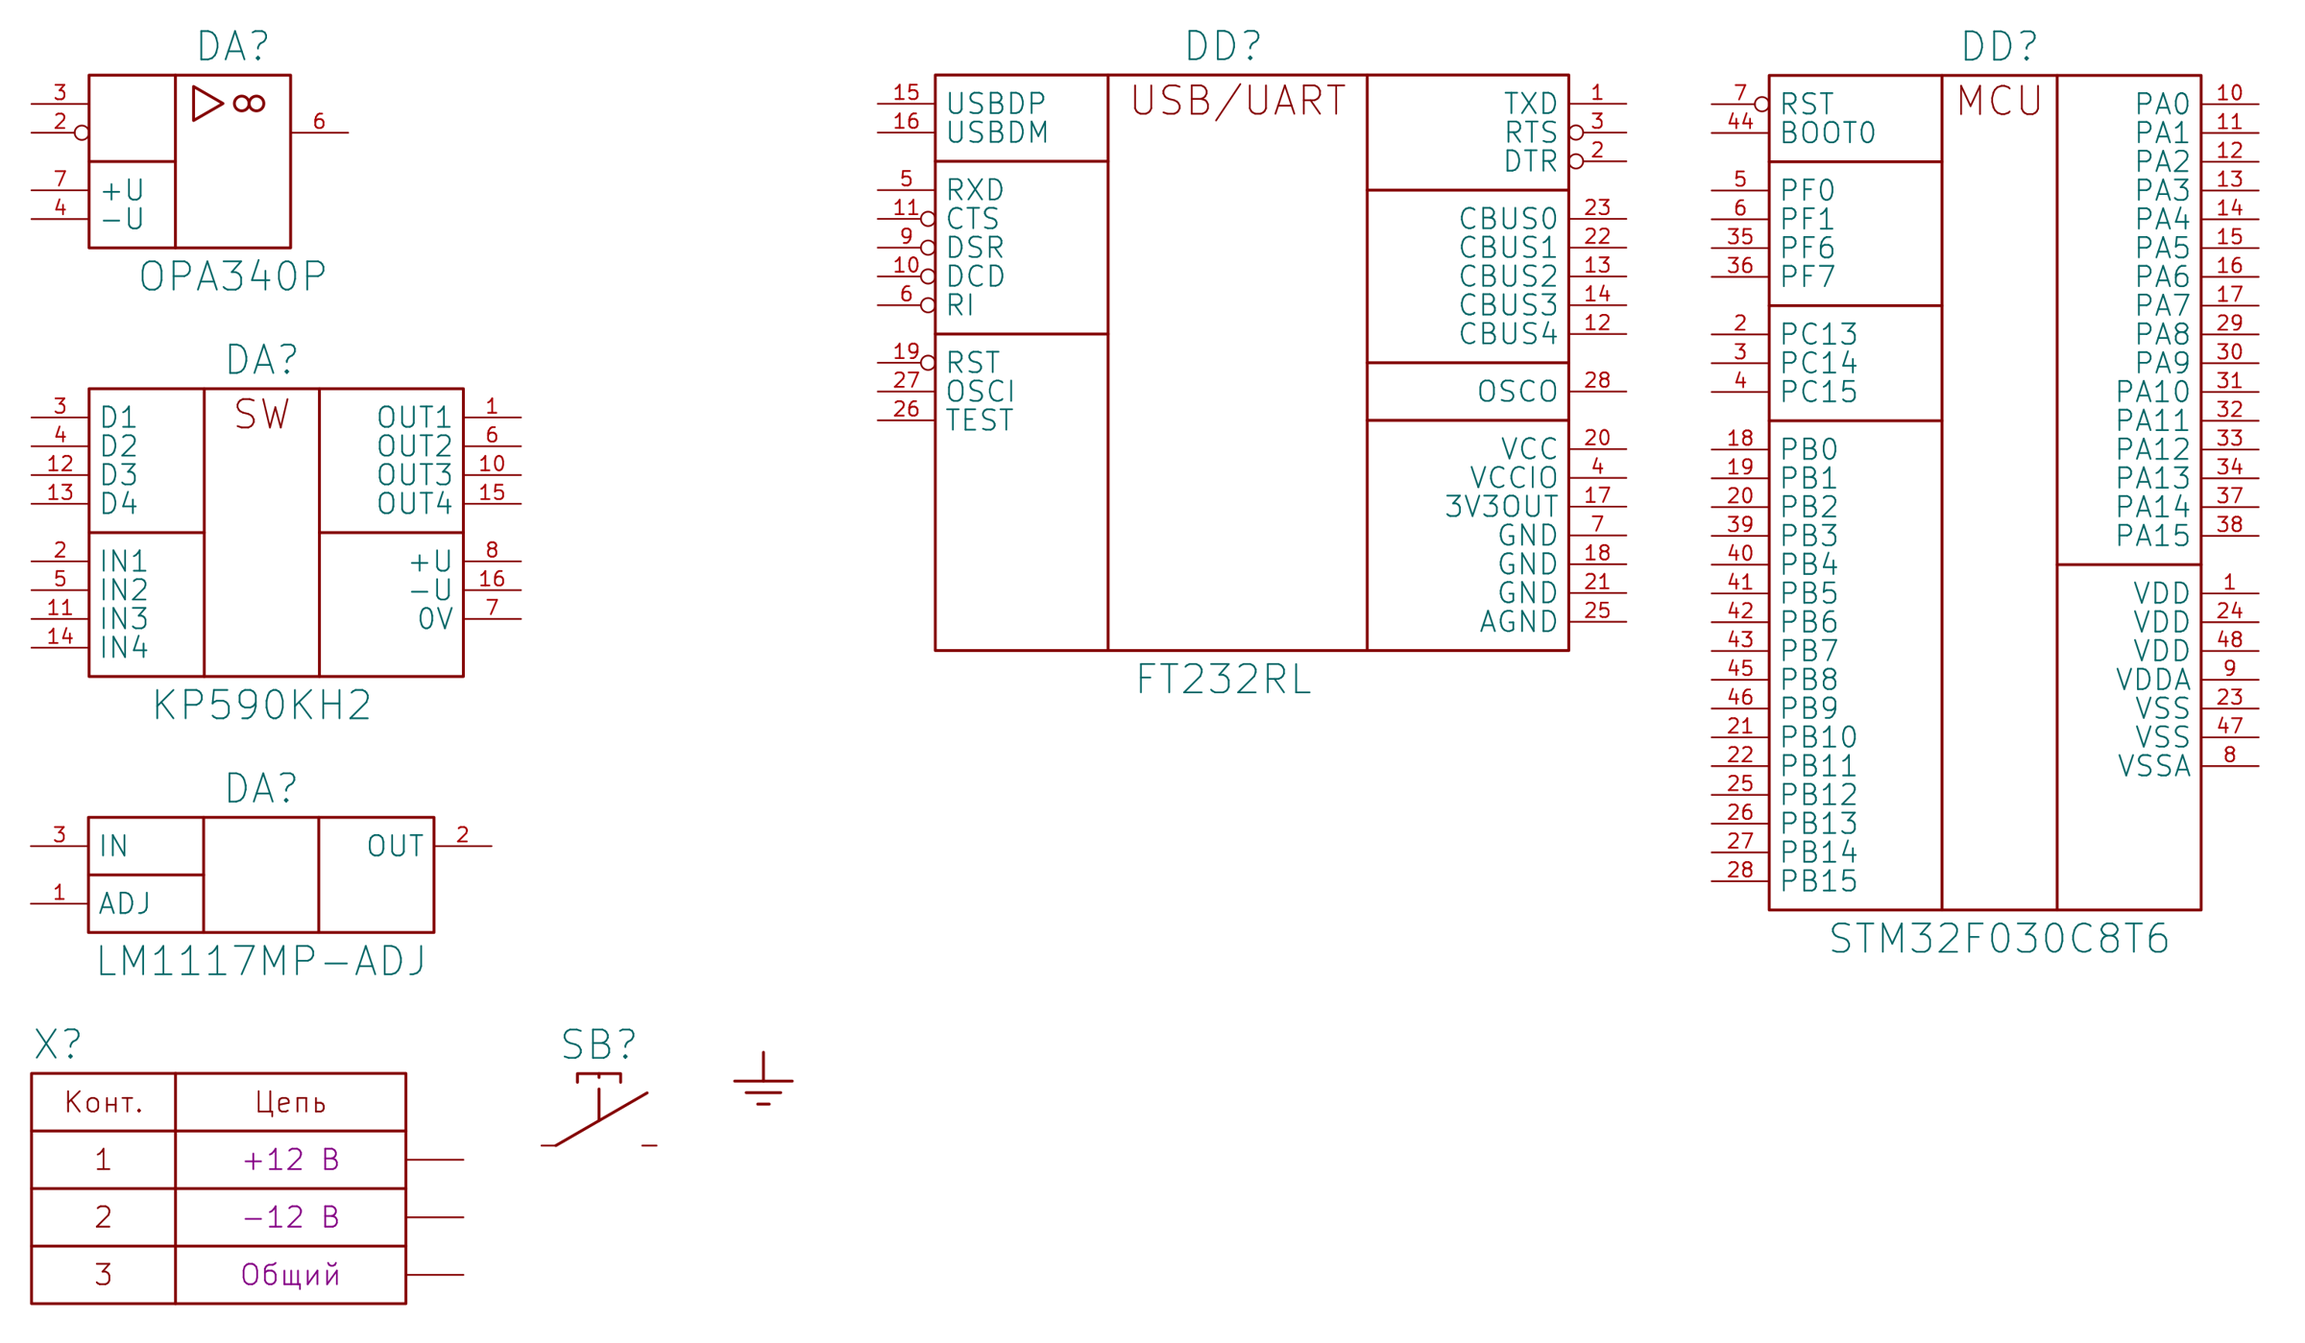
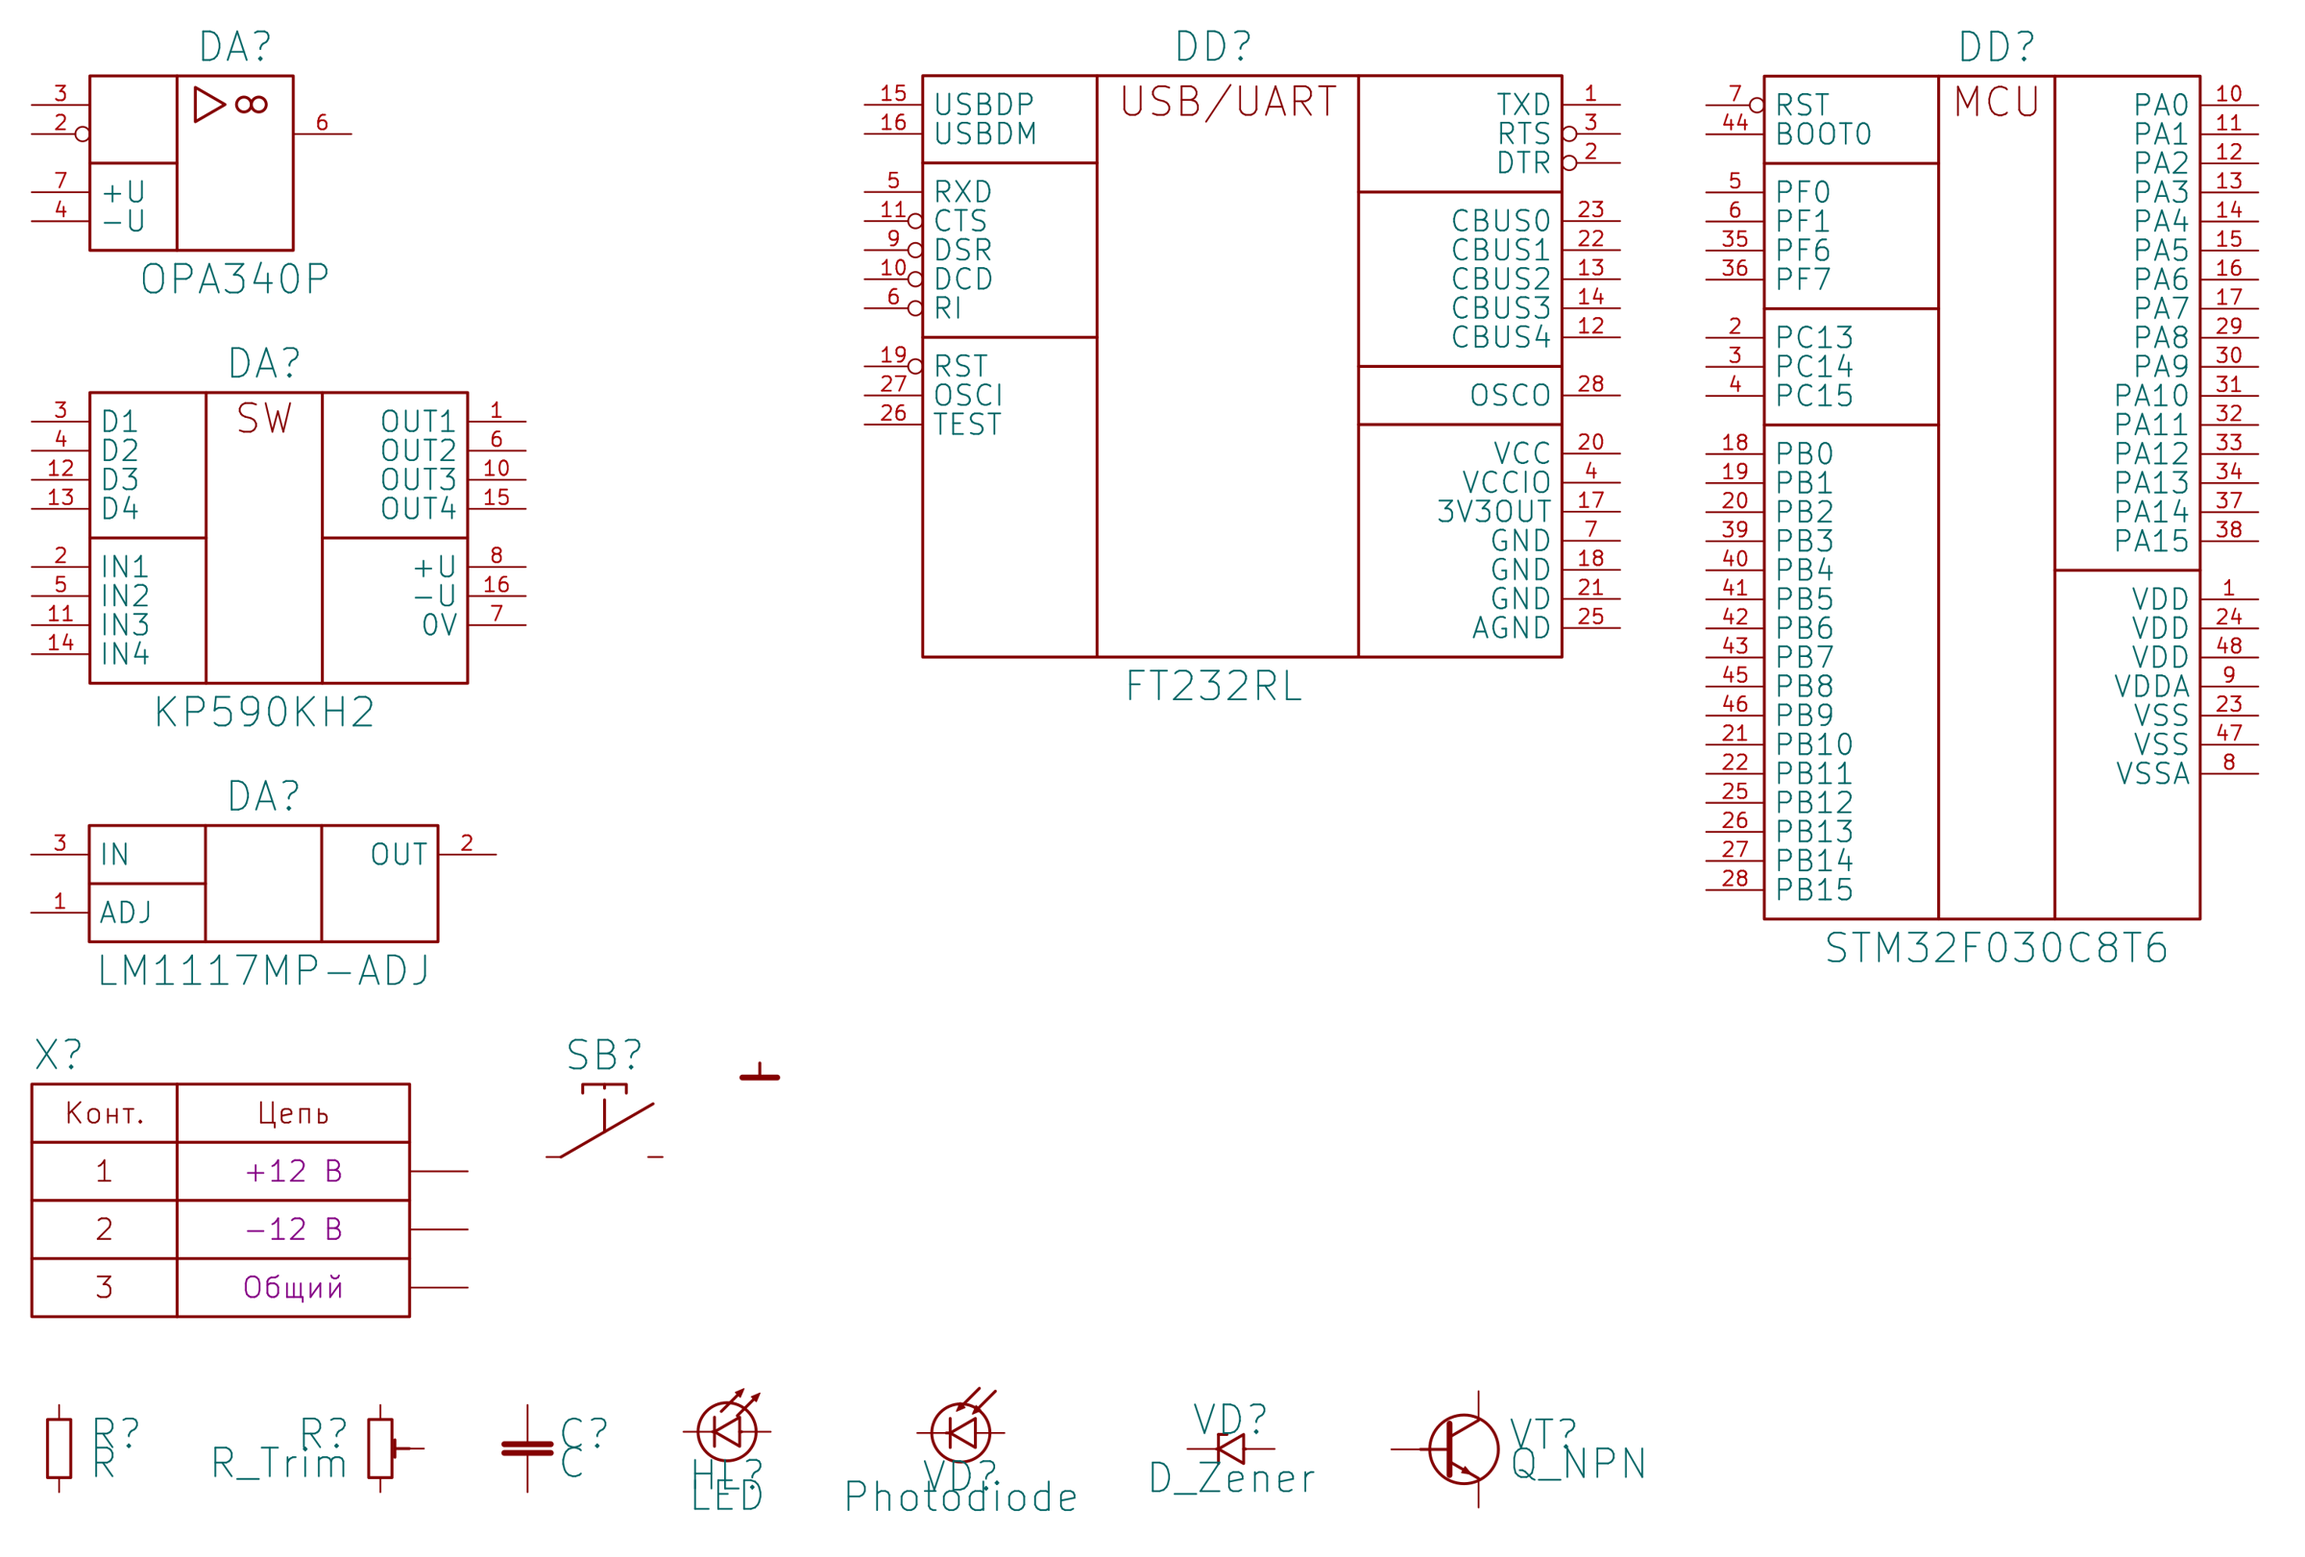
УГО дискретных элементов по ГОСТ 2.728/2.730 (R, R_Trim, C, LED, фотодиод, стабилитрон, n-p-n), общий провод «⊥» по ГОСТ 2.721
Claude-Session: https://claude.ai/code/session_01FsJMMwHQ3FuEgyASHhQBd4

diff --git a/tools/gen_gost_lib.py b/tools/gen_gost_lib.py
@@ -441,19 +441,162 @@ def sym_button():
     return s
 
 
-def sym_gnd():
-    """Заземление, общее обозначение — ГОСТ 2.721-74, табл. 6б, п. 1."""
-    s = Symbol("GND", "#PWR", "GND", descr="Символ питания: общий провод (земля) по ГОСТ 2.721",
-               keywords="земля общий GND ground", power=True)
+# ------------------------------------------------- дискретные элементы (масштаб 1:2 к размерам ГОСТ)
+# Выводы стоят в тех же точках и с теми же номерами, что у штатных символов KiCad
+# (Device:R, Device:C, Device:R_Potentiometer, Device:LED, Diode:ZYxxx, Sensor_Optical:BPW34,
+# Transistor_BJT:BD235, power:GND) — замена символа на схеме не рвёт провода.
+THICK = 0.508
+
+
+def wline(w, *pts):
+    p = " ".join(f"(xy {fmt(x)} {fmt(y)})" for x, y in pts)
+    return f"(polyline (pts {p}) (stroke (width {fmt(w)}) (type default)) (fill (type none)))"
+
+
+def fpoly(*pts):
+    p = " ".join(f"(xy {fmt(x)} {fmt(y)})" for x, y in pts + (pts[0],))
+    return f"(polyline (pts {p}) (stroke (width 0.1) (type default)) (fill (type outline)))"
+
+
+def arrow(sx, sy, ex, ey, head=0.75, half=0.3):
+    """линия со сплошной стрелкой на конце (ex, ey)"""
+    L = math.hypot(ex - sx, ey - sy)
+    ux, uy = (ex - sx) / L, (ey - sy) / L
+    nx, ny = -uy, ux
+    bx, by = ex - head * ux, ey - head * uy
+    return [line((sx, sy), (bx, by)),
+            fpoly((ex, ey), (bx + half * nx, by + half * ny), (bx - half * nx, by - half * ny))]
+
+
+def two_pin(s, x1, y1, a1, x2, y2, a2, length, n1="", n2=""):
+    s.pins.append(pin("1", n1, "passive", x1, y1, a1, length=length, empty=""))
+    s.pins.append(pin("2", n2, "passive", x2, y2, a2, length=length, empty=""))
+    s.hide_pin_numbers = True
+    s.hide_pin_names = True
+
+
+def diode_body(g, x_apex, x_base, half=1.27, k_end=None, a_end=None):
+    """треугольник 60° (вершина — катод) и черта катода"""
+    g.append(line((x_base, half), (x_base, -half), (x_apex, 0), (x_base, half)))
+    g.append(line((x_apex, half), (x_apex, -half)))
+    if k_end is not None:
+        g.append(line((k_end, 0), (x_apex, 0)))
+    if a_end is not None:
+        g.append(line((x_base, 0), (a_end, 0)))
+
+
+def sym_r():
+    """Резистор постоянный, ГОСТ 2.728 (10 × 4 мм -> 5,08 × 2,03)."""
+    s = Symbol("R", "R", "R", footprint="GOST_FP:R_Axial_DIN0309_L9.0mm_D3.2mm_P2.54mm_Vertical",
+               descr="Резистор постоянный (ГОСТ 2.728)", keywords="резистор resistor")
+    s.graphics.append(rect(-1.016, 2.54, 1.016, -2.54))
+    two_pin(s, 0, 3.81, 270, 0, -3.81, 90, 1.27)
+    s.ref_at, s.val_at = (2.54, 1.27, "left"), (2.54, -1.27, "left")
+    return s
+
+
+def sym_r_trim():
+    """Резистор подстроечный, ГОСТ 2.728: регулирующий элемент — отрезок с «Т» на конце."""
+    s = Symbol("R_Trim", "R", "R_Trim", footprint="GOST_FP:Potentiometer_Bourns_3296W_Vertical",
+               descr="Резистор подстроечный (ГОСТ 2.728)", keywords="резистор подстроечный trimmer")
     g = s.graphics
-    g.append(line((0, 0), (0, -2.54)))
-    g.append(line((-2.54, -2.54), (2.54, -2.54)))
-    g.append(line((-1.524, -3.556), (1.524, -3.556)))
-    g.append(line((-0.508, -4.572), (0.508, -4.572)))
+    g.append(rect(-1.016, 2.54, 1.016, -2.54))
+    g.append(line((2.54, 0), (1.27, 0)))
+    g.append(wline(LINE_W, (1.27, 0.762), (1.27, -0.762)))
+    s.pins += [pin("1", "1", "passive", 0, 3.81, 270, length=1.27),
+               pin("2", "2", "passive", 3.81, 0, 180, length=1.27),
+               pin("3", "3", "passive", 0, -3.81, 90, length=1.27)]
+    s.hide_pin_numbers = True
+    s.hide_pin_names = True
+    s.ref_at, s.val_at = (-2.54, 1.27, "right"), (-2.54, -1.27, "right")
+    return s
+
+
+def sym_c():
+    """Конденсатор постоянной ёмкости, ГОСТ 2.728 (пластины 8 мм, зазор 1,5 мм -> 4,06 / 0,76)."""
+    s = Symbol("C", "C", "C", footprint="GOST_FP:C_Disc_D5.1mm_W3.2mm_P5.00mm",
+               descr="Конденсатор постоянной ёмкости (ГОСТ 2.728)", keywords="конденсатор capacitor")
+    s.graphics += [wline(THICK, (-2.032, 0.381), (2.032, 0.381)),
+                   wline(THICK, (-2.032, -0.381), (2.032, -0.381))]
+    two_pin(s, 0, 3.81, 270, 0, -3.81, 90, 3.429)
+    s.ref_at, s.val_at = (2.54, 1.27, "left"), (2.54, -1.27, "left")
+    return s
+
+
+def sym_led():
+    """Светодиод, ГОСТ 2.730: диод в корпусе Ø10 (-> Ø5,08), две стрелки наружу под 45°."""
+    s = Symbol("LED", "HL", "LED", descr="Светодиод (ГОСТ 2.730)", keywords="светодиод LED",
+               footprint="GOST_FP:LaserDiode_TO18-D5.6-3")
+    g = s.graphics
+    g.append(circle(0, 0, 2.54))
+    diode_body(g, -1.1, 1.1, k_end=-1.27, a_end=1.27)
+    d = (0.7071, 0.7071)
+    for sx, sy in ((-0.508, 1.778), (0.889, 1.397)):
+        g += arrow(sx, sy, sx + 2.8 * d[0], sy + 2.8 * d[1])
+    two_pin(s, -3.81, 0, 0, 3.81, 0, 180, 2.54, "K", "A")
+    s.ref_at, s.val_at = (0, -3.81, ""), (0, -5.588, "")
+    return s
+
+
+def sym_photodiode():
+    """Фотодиод, ГОСТ 2.730: диод в корпусе Ø10 (-> Ø5,08), две стрелки внутрь под 45°."""
+    s = Symbol("Photodiode", "VD", "Photodiode", descr="Фотодиод (ГОСТ 2.730)",
+               keywords="фотодиод photodiode PIN", footprint="GOST_FP:Osram_DIL2_4.3x4.65mm_P5.08mm")
+    g = s.graphics
+    g.append(circle(-1.27, 0, 2.54))
+    diode_body(g, -2.2, 0, k_end=-2.54)
+    for ex, ey in ((-1.651, 1.905), (-0.254, 1.651)):
+        g += arrow(ex + 2.0, ey + 2.0, ex, ey)
+    two_pin(s, -5.08, 0, 0, 2.54, 0, 180, 2.54, "K", "A")
+    s.ref_at, s.val_at = (-1.27, -3.81, ""), (-1.27, -5.588, "")
+    return s
+
+
+def sym_zener():
+    """Стабилитрон, ГОСТ 2.730: диод, черта катода с одним отгибом."""
+    s = Symbol("D_Zener", "VD", "D_Zener", descr="Стабилитрон (ГОСТ 2.730)",
+               keywords="стабилитрон zener", footprint="GOST_FP:D_DO-41_SOD81_P10.16mm_Horizontal")
+    g = s.graphics
+    diode_body(g, -1.1, 1.1, k_end=-1.27, a_end=1.27)
+    g.append(line((-1.1, 1.27), (-0.35, 1.27)))
+    two_pin(s, -3.81, 0, 0, 3.81, 0, 180, 2.54, "K", "A")
+    s.ref_at, s.val_at = (0, 2.54, ""), (0, -2.54, "")
+    return s
+
+
+def sym_npn():
+    """Транзистор биполярный n-p-n, ГОСТ 2.730: корпус Ø12 (-> Ø6), угол между К и Э 60°."""
+    s = Symbol("Q_NPN", "VT", "Q_NPN", descr="Транзистор n-p-n (ГОСТ 2.730); выводы 1-Э, 2-К, 3-Б",
+               keywords="транзистор npn BJT", footprint="GOST_FP:TO-126-3_Vertical")
+    g = s.graphics
+    g.append(circle(1.27, 0, 3.0))
+    g.append(wline(THICK, (0, 2.25), (0, -2.25)))       # база
+    g.append(line((-2.54, 0), (0, 0)))
+    g.append(line((0, 1.074), (2.54, 2.54)))            # коллектор
+    ux, uy = 0.866, -0.5                                 # эмиттер, 30° к оси
+    tip = (0 + 2.2 * ux, -1.074 + 2.2 * uy)
+    g.append(line((0, -1.074), (2.54, -2.54)))
+    g.append(fpoly(tip, (tip[0] - 0.8 * ux + 0.3 * 0.5, tip[1] - 0.8 * uy + 0.3 * 0.866),
+                   (tip[0] - 0.8 * ux - 0.3 * 0.5, tip[1] - 0.8 * uy - 0.3 * 0.866)))
+    s.pins += [pin("1", "E", "passive", 2.54, -5.08, 90, length=2.54),
+               pin("2", "C", "passive", 2.54, 5.08, 270, length=2.54),
+               pin("3", "B", "input", -5.08, 0, 0, length=2.54)]
+    s.hide_pin_numbers = True
+    s.hide_pin_names = True
+    s.ref_at, s.val_at = (5.08, 1.27, "left"), (5.08, -1.27, "left")
+    return s
+
+
+def sym_gnd():
+    """Электрическое соединение с корпусом (общий провод) — ГОСТ 2.721-74, табл. 6б, п. 4:
+    «⊥», горизонтальная линия толстая (6 мм -> 3,05 мм)."""
+    s = Symbol("GND", "#PWR", "GND", descr="Общий провод (соединение с корпусом), ГОСТ 2.721",
+               keywords="общий провод корпус GND ground", power=True)
+    s.graphics += [line((0, 0), (0, -1.27)), wline(THICK, (-1.524, -1.27), (1.524, -1.27))]
     s.pins.append(pin("1", "GND", "power_in", 0, 0, 270, hidden=True, length=0))
-    s.ref_at = (0, -6.35, "")
+    s.ref_at = (0, -3.81, "")
     s.ref_hidden = True
-    s.val_at = (0, -7.0, "")
+    s.val_at = (0, -2.54, "")
     s.value_hidden = True
     s.name_offset = 0
     return s
@@ -474,6 +617,7 @@ def main():
     syms += [sym_conn(n, ["+12 В", "-12 В", "Общий"] if n == 3 else None) for n in range(2, 7)]
     syms.append(sym_gnd())
     syms.append(sym_button())
+    syms += [sym_r(), sym_r_trim(), sym_c(), sym_led(), sym_photodiode(), sym_zener(), sym_npn()]
 
     hdr = ["(kicad_symbol_lib"]
     if ARGS.legacy:

diff --git a/README.md b/README.md
@@ -5,7 +5,7 @@
 
 ```
 kicad-gost-lib/
-├── symbols/GOST_UGO.kicad_sym          УГО компонентов (12 шт.)
+├── symbols/GOST_UGO.kicad_sym          УГО компонентов (19 шт.)
 ├── footprints/GOST_FP.pretty/          посадочные места (19 шт.)
 ├── drawing_sheets/GOST_form1.kicad_wks рамка листа + основная надпись, ГОСТ 2.104 форма 1
 ├── tools/gen_gost_lib.py               генератор УГО (символы описаны кодом)
@@ -24,7 +24,20 @@ kicad-gost-lib/
 | `FT232RL` — преобразователь USB–UART | DD | 2.743 (функция «USB/UART») |
 | `Conn_1x02` … `Conn_1x06` — соединитель | X (XP/XS) | 2.755, таблица «Конт. / Цепь» |
 | `SW_Push_NO` — кнопка, замыкающий контакт | SB | 2.755, 2.721 |
-| `GND` — общий провод | #PWR | 2.721 |
+| `GND` — общий провод (соединение с корпусом, «⊥») | #PWR | 2.721, табл. 6б п. 4 |
+| `R` — резистор постоянный | R | 2.728 |
+| `R_Trim` — резистор подстроечный | R | 2.728 |
+| `C` — конденсатор постоянной ёмкости | C | 2.728 |
+| `LED` — светодиод | HL | 2.730 |
+| `Photodiode` — фотодиод | VD | 2.730 |
+| `D_Zener` — стабилитрон | VD | 2.730 |
+| `Q_NPN` — транзистор n-p-n | VT | 2.730 |
+
+Дискретные элементы выполнены в масштабе 1:2 к размерам из таблиц ГОСТ (резистор 5,08 × 2,03 мм вместо
+10 × 4, корпус диода/светодиода Ø5,08 вместо Ø10, транзистора Ø6 вместо Ø12, угол коллектор–эмиттер 60°,
+треугольник диода 60°). Выводы стоят в тех же точках и с теми же номерами, что у штатных символов KiCad
+(`Device:R`, `Device:C`, `Device:R_Potentiometer`, `Device:LED`, `Diode:ZYxxx`, `Sensor_Optical:BPW34`,
+`Transistor_BJT:BD235`, `power:GND`), поэтому замена через *Правка → Изменить символы* не рвёт провода.
 
 ![УГО библиотеки](docs/preview_symbols.png)
 
